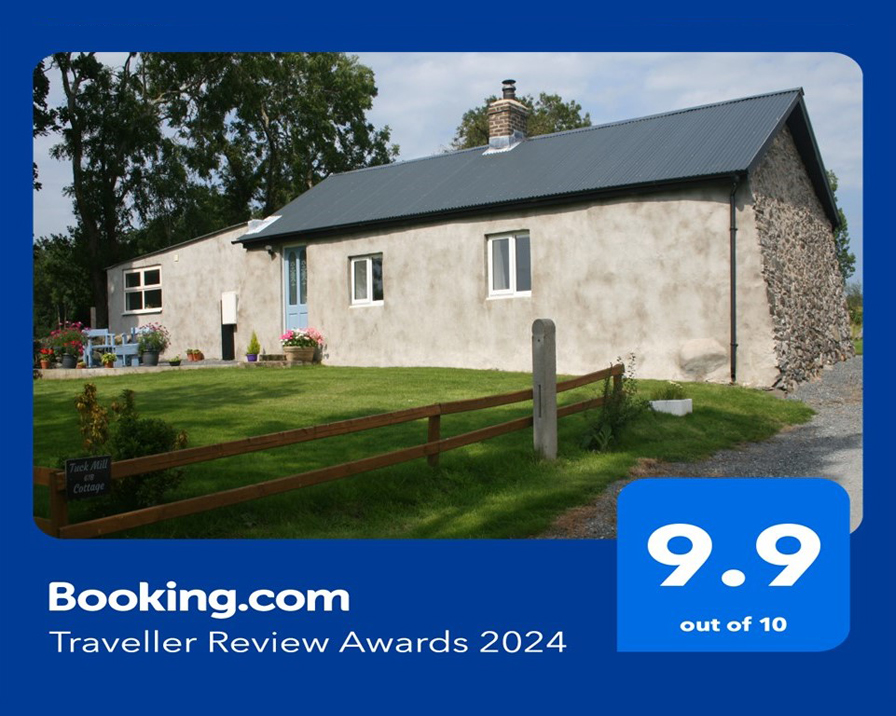
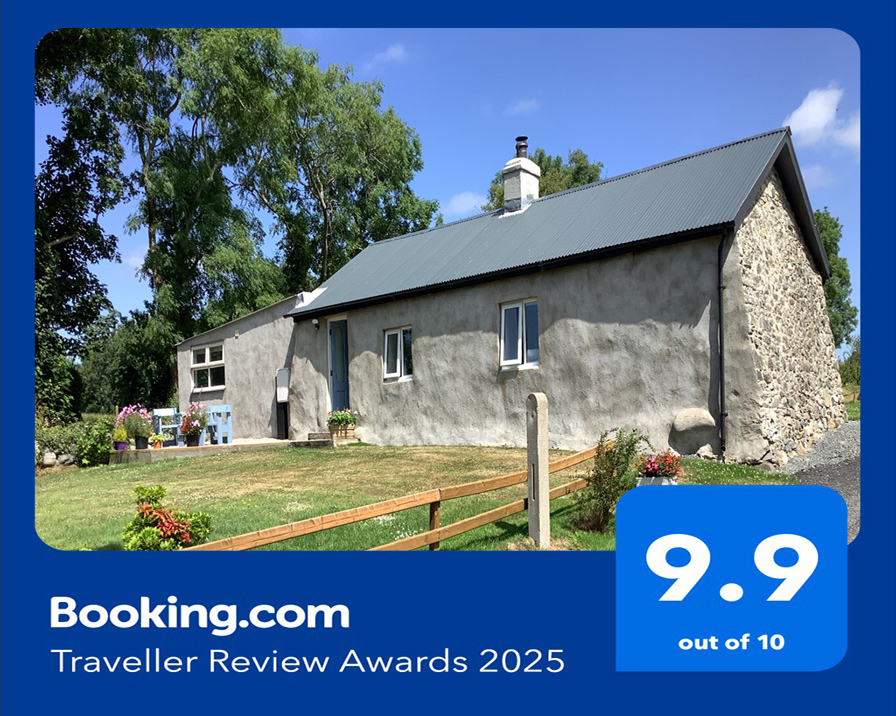
Updated Booking.com images

diff --git a/index.html b/index.html
@@ -39,7 +39,7 @@
 									</ul>
 									<p id="text02" class="style2"><span class="p">.<br />.<br />.</span></p>
 									<div id="image04" class="style2 image full">
-										<a href="https://tuckmillcottage.co.uk/book/" class="frame"><img src="assets/images/image04.jpg" alt="9.9 out of 10 - Booking.com Traveller Review Awards 2024" /></a>
+										<a href="https://tuckmillcottage.co.uk/book/" class="frame"><img src="assets/images/image04.jpg" alt="9.9 out of 10 - Booking.com Traveller Review Awards 2025" /></a>
 									</div>
 								</div>
 							</div>
@@ -108,7 +108,7 @@
 								<div class="inner">
 									<div>
 										<div id="image02" class="style1 image full">
-											<a href="#photos" class="frame"><img src="assets/images/image02.jpg" alt="9.9 / 10 - Booking.com Traveller Review Awards 2024" /></a>
+											<a href="#photos" class="frame"><img src="assets/images/image02.jpg" alt="9.9 / 10 - Booking.com Traveller Review Awards 2025" /></a>
 										</div>
 										<p id="text14" class="style2">
 										<span class="p"><strong>What a special little hideaway for a restful holiday.</strong><br />&quot;We enjoyed Jan&#039;s homemade wheaten &amp; jam on arrival. The views from each window was of sheep grazing in fields just below the Mountains of Mourne. What a tranquil &amp; peaceful setting for a beautiful, cosy cottage.</span>
@@ -216,7 +216,7 @@
 												</li><li>
[1 lines of base64/hex data omitted]
 												</li><li>
-													<a href="assets/images/gallery01/ad2f129f_original.jpg" class="thumbnail"><span class="frame"><img  src="assets/images/gallery01/ad2f129f.jpg" alt="Booking.com Traveller Review Awards 2024 &quot;9.9 out of 10&quot;" /></span></a>
+													<a href="assets/images/gallery01/ad2f129f_original.jpg" class="thumbnail"><span class="frame"><img  src="assets/images/gallery01/ad2f129f.jpg" alt="Booking.com Traveller Review Awards 2025 &quot;9.9 out of 10&quot;" /></span></a>
 												</li><li>
 													<a href="assets/images/gallery01/bc6fe51e_original.jpg" class="thumbnail"><span class="frame"><img  src="assets/images/gallery01/bc6fe51e.jpg" alt="Untitled" /></span></a>
 												</li><li>
